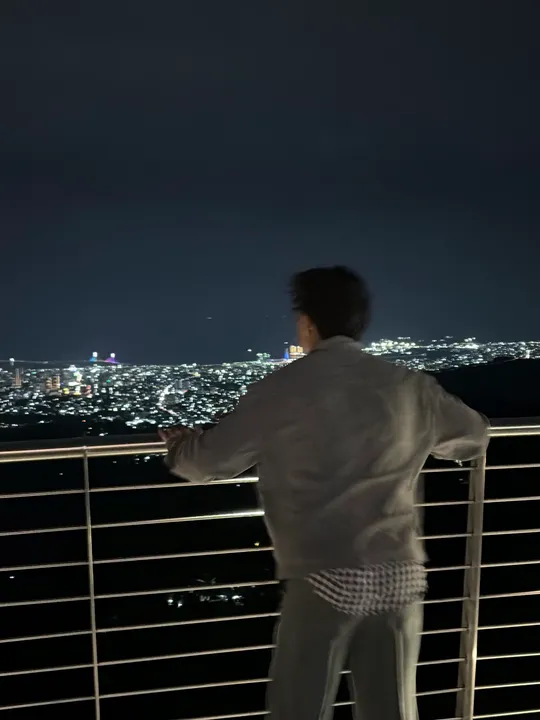
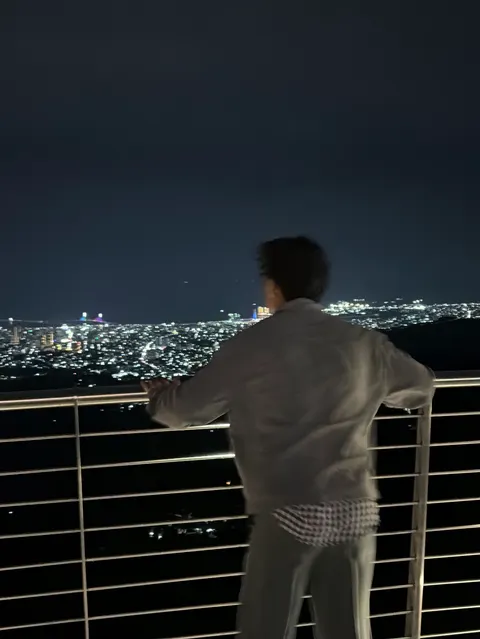
perf(home): size hero images to their display and keep the portrait visible from the first frame
Chrome counts a fading element as painted only when its opacity animation ends, which held back LCP by the 0.6s fade; the portrait now slides into place instead. The hover photo waits for the front one so it never competes with first paint.

diff --git a/src/features/home/components/GlitchPortrait.tsx b/src/features/home/components/GlitchPortrait.tsx
@@ -24,6 +24,8 @@ export default function GlitchPortrait({ frontSrc, backSrc, alt }: Props) {
   const [showBack, setShowBack] = useState(false);
   const [glitchKey, setGlitchKey] = useState(0);
   const [glitching, setGlitching] = useState(false);
+  // The back photo waits for the front one, so it never competes with the page's first paint.
+  const [frontLoaded, setFrontLoaded] = useState(false);
   const timeoutRef = useRef<number | undefined>(undefined);
 
   useEffect(() => () => window.clearTimeout(timeoutRef.current), []);
@@ -60,13 +62,16 @@ export default function GlitchPortrait({ frontSrc, backSrc, alt }: Props) {
         <img
           src={frontSrc}
           alt={alt}
+          onLoad={() => setFrontLoaded(true)}
           className={`${IMAGE_CLASS} ${fade} ${glitching ? "animate-glitch-jolt" : ""} ${showBack ? "opacity-0" : "opacity-100"}`}
         />
-        <img
-          src={backSrc}
-          alt=""
-          className={`${IMAGE_CLASS} ${fade} ${glitching ? "animate-glitch-jolt" : ""} ${showBack ? "opacity-100" : "opacity-0"}`}
-        />
+        {frontLoaded && (
+          <img
+            src={backSrc}
+            alt=""
+            className={`${IMAGE_CLASS} ${fade} ${glitching ? "animate-glitch-jolt" : ""} ${showBack ? "opacity-100" : "opacity-0"}`}
+          />
+        )}
       </div>
 
       {glitching && (

diff --git a/src/features/home/components/Introduction.tsx b/src/features/home/components/Introduction.tsx
@@ -2,7 +2,7 @@ import { motion } from "motion/react";
 import { Link } from "react-router";
 import DarkBand from "@/components/molecules/DarkBand";
 import { ageOn } from "@/lib/format";
-import { drawRule, revealOnLoad } from "@/lib/motion";
+import { drawRule, revealOnLoad, settleOnLoad } from "@/lib/motion";
 import GlitchPortrait from "./GlitchPortrait";
 import RotatingRoles from "./RotatingRoles";
 import type { CallToAction, ContactLink } from "../domain/home.domain";
@@ -23,7 +23,7 @@ export default function Introduction({ portraitSrc, hoverPortraitSrc, callToActi
     <DarkBand>
       <div className="page-container min-h-[calc(100svh-3.5rem)] flex flex-col items-center justify-center text-center gap-5 py-16 md:py-24">
         <motion.div
-          {...revealOnLoad({ y: 16 })}
+          {...settleOnLoad({ y: 16 })}
           className="relative w-44 sm:w-52 md:w-60 aspect-square rounded-2xl bg-zinc-900 overflow-hidden mb-2"
         >
           <GlitchPortrait frontSrc={portraitSrc} backSrc={hoverPortraitSrc} alt="Max Benedict Chavez" />

diff --git a/src/lib/motion.ts b/src/lib/motion.ts
@@ -24,6 +24,19 @@ export function revealOnLoad({ y = 0, delay = 0, duration = 0.6 }: Omit<Reveal, 
   } as const;
 }
 
+/**
+ * Slides an element up into place once, on first render, without fading it. For the page's largest
+ * image: the browser only counts an element as painted once an opacity fade finishes, so a fade
+ * would hold back the largest paint.
+ */
+export function settleOnLoad({ y = 0, delay = 0, duration = 0.6 }: Omit<Reveal, "x"> = {}) {
+  return {
+    initial: { y, scale: 0.97 },
+    animate: { y: 0, scale: 1 },
+    transition: { duration, delay, ease: "easeOut" },
+  } as const;
+}
+
 /** Draws the short maroon accent rule from zero width. */
 export function drawRule(delay: number) {
   return {
